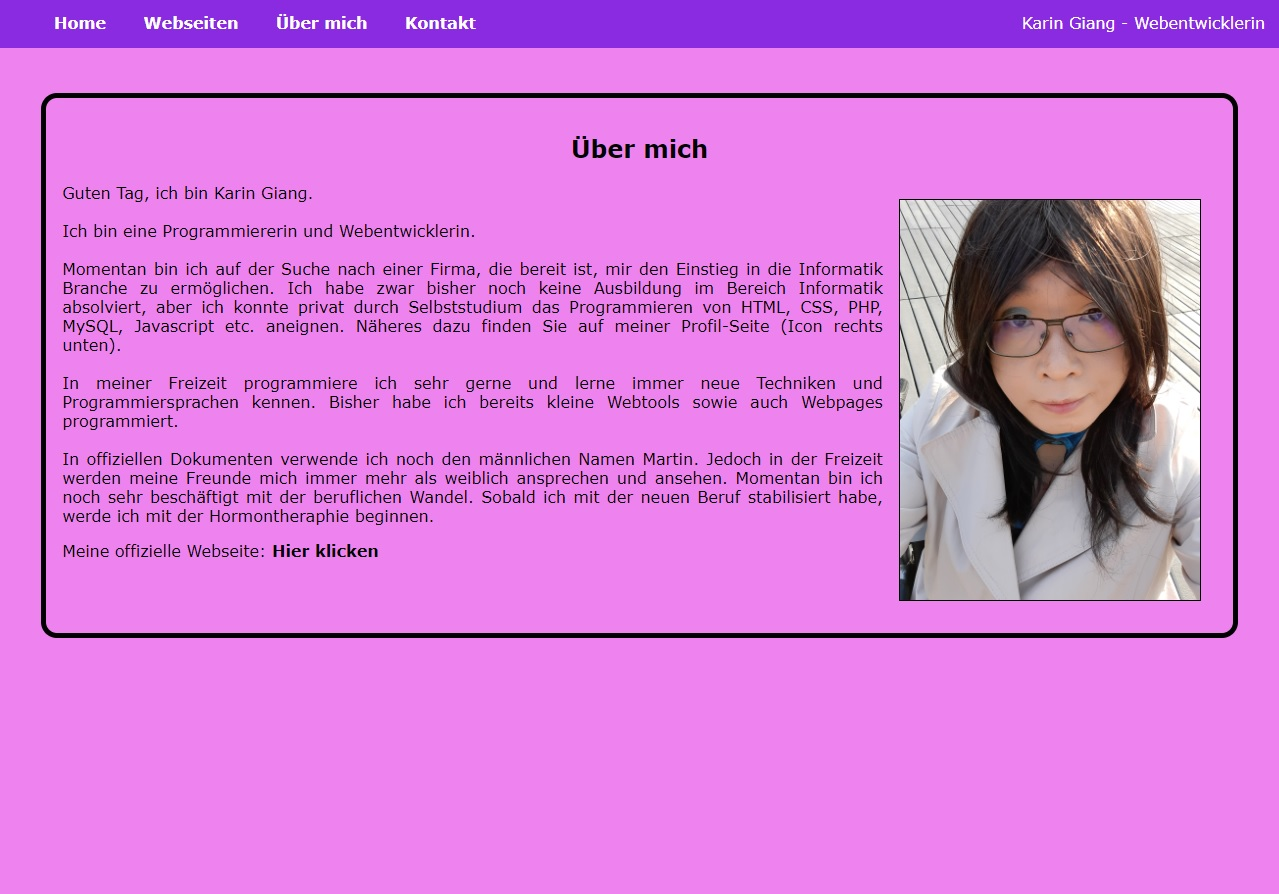
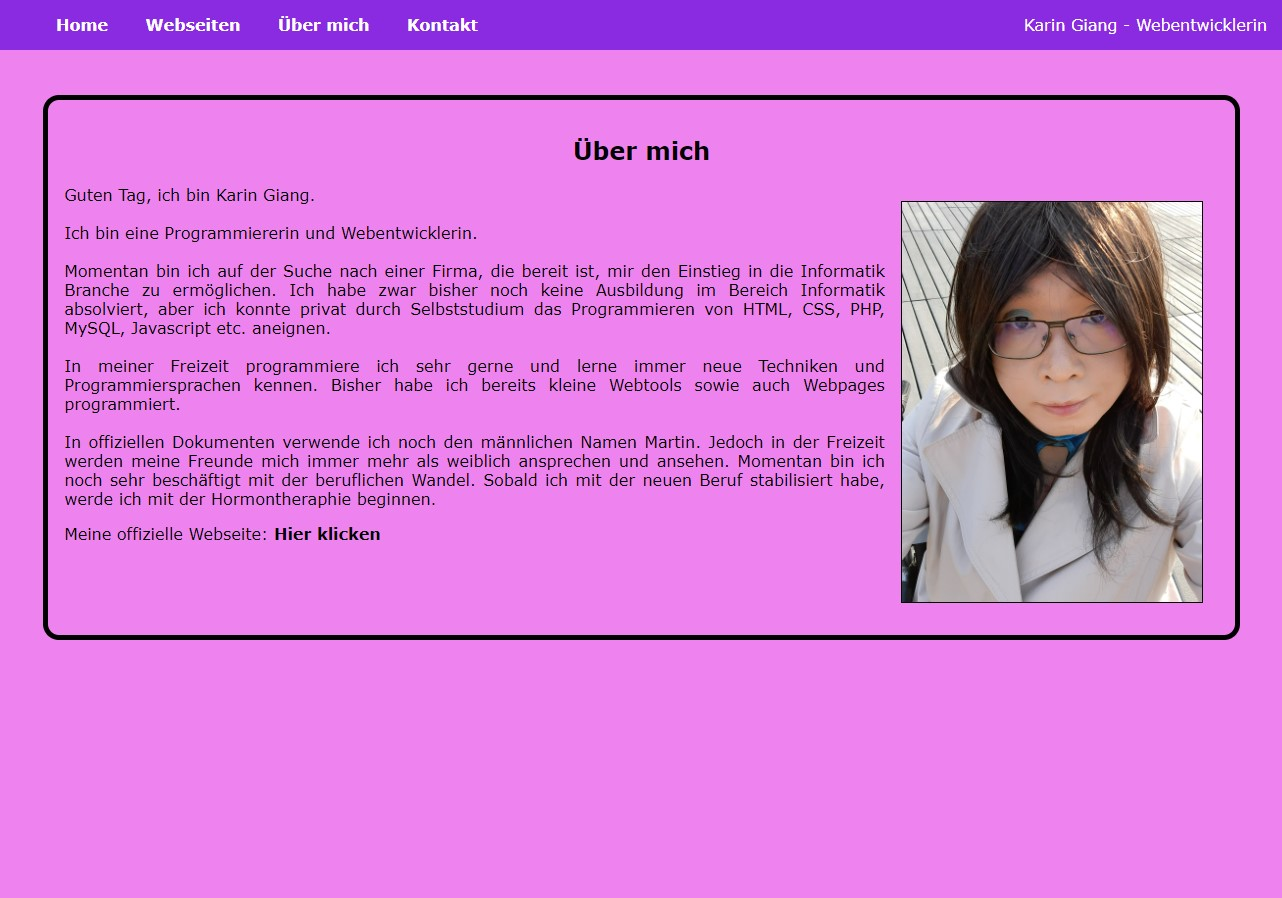
add new about me text

diff --git a/pages/websites.php b/pages/websites.php
@@ -9,10 +9,11 @@ Es ist auch mein Hobby, immer wieder neue Ideen für Webseiten zu entwickeln und
 <p>Alle Codes von meiner Webseiten Vorschlägen sind in meiner <b><a href='https://github.com/Carranya'>GitHub Seite</a></b> einsehbar.</p>
     <div class="centerPage">
         <div id="websitesContent">
-            <a href="projects/website_proposal_1/index.php" target="_blank"><img src="img/websites/website_proposal_1.jpg" class="websitesPic"></a>
-            <a href="projects/website_proposal_2/index.php" target="_blank"><img src="img/websites/website_proposal_2.jpg" class="websitesPic"></a>
-            <a href="projects/website_proposal_3/index.php" target="_blank"><img src="img/websites/website_proposal_3.jpg" class="websitesPic"></a>
-            <a href="projects/website_proposal_4/index.php" target="_blank"><img src="img/websites/website_proposal_4.jpg" class="websitesPic"></a>
+            <a href="https://karingiang.ch/projects/vereinhomepagedemo/public_html/index.php" target="_blank"><img src="img/websites/verein.jpg" class="websitesPic"></a>
+            <a href="https://karingiang.ch/projects/website_proposal_1/index.php" target="_blank"><img src="img/websites/website_proposal_1.jpg" class="websitesPic"></a>
+            <a href="https://karingiang.ch/projects/website_proposal_2/index.php" target="_blank"><img src="img/websites/website_proposal_2.jpg" class="websitesPic"></a>
+            <a href="https://karingiang.ch/projects/website_proposal_3/index.php" target="_blank"><img src="img/websites/website_proposal_3.jpg" class="websitesPic"></a>
+            <a href="https://karingiang.ch/projects/website_proposal_4/index.php" target="_blank"><img src="img/websites/website_proposal_4.jpg" class="websitesPic"></a>
         </div>
     </div>
 </div>

diff --git a/pages/about.php b/pages/about.php
@@ -12,7 +12,6 @@ Momentan bin ich auf der Suche nach einer Firma, die bereit ist,
 mir den Einstieg in die Informatik Branche zu ermöglichen.
 Ich habe zwar bisher noch keine Ausbildung im Bereich Informatik absolviert, 
 aber ich konnte privat durch Selbststudium das Programmieren von HTML, CSS, PHP, MySQL, Javascript etc. aneignen.
-Näheres dazu finden Sie auf meiner Profil-Seite.
 <br><br>
 In meiner Freizeit programmiere ich sehr gerne und lerne immer neue Techniken und Programmiersprachen kennen.
 Bisher habe ich bereits kleine Webtools sowie auch Webpages programmiert.    
